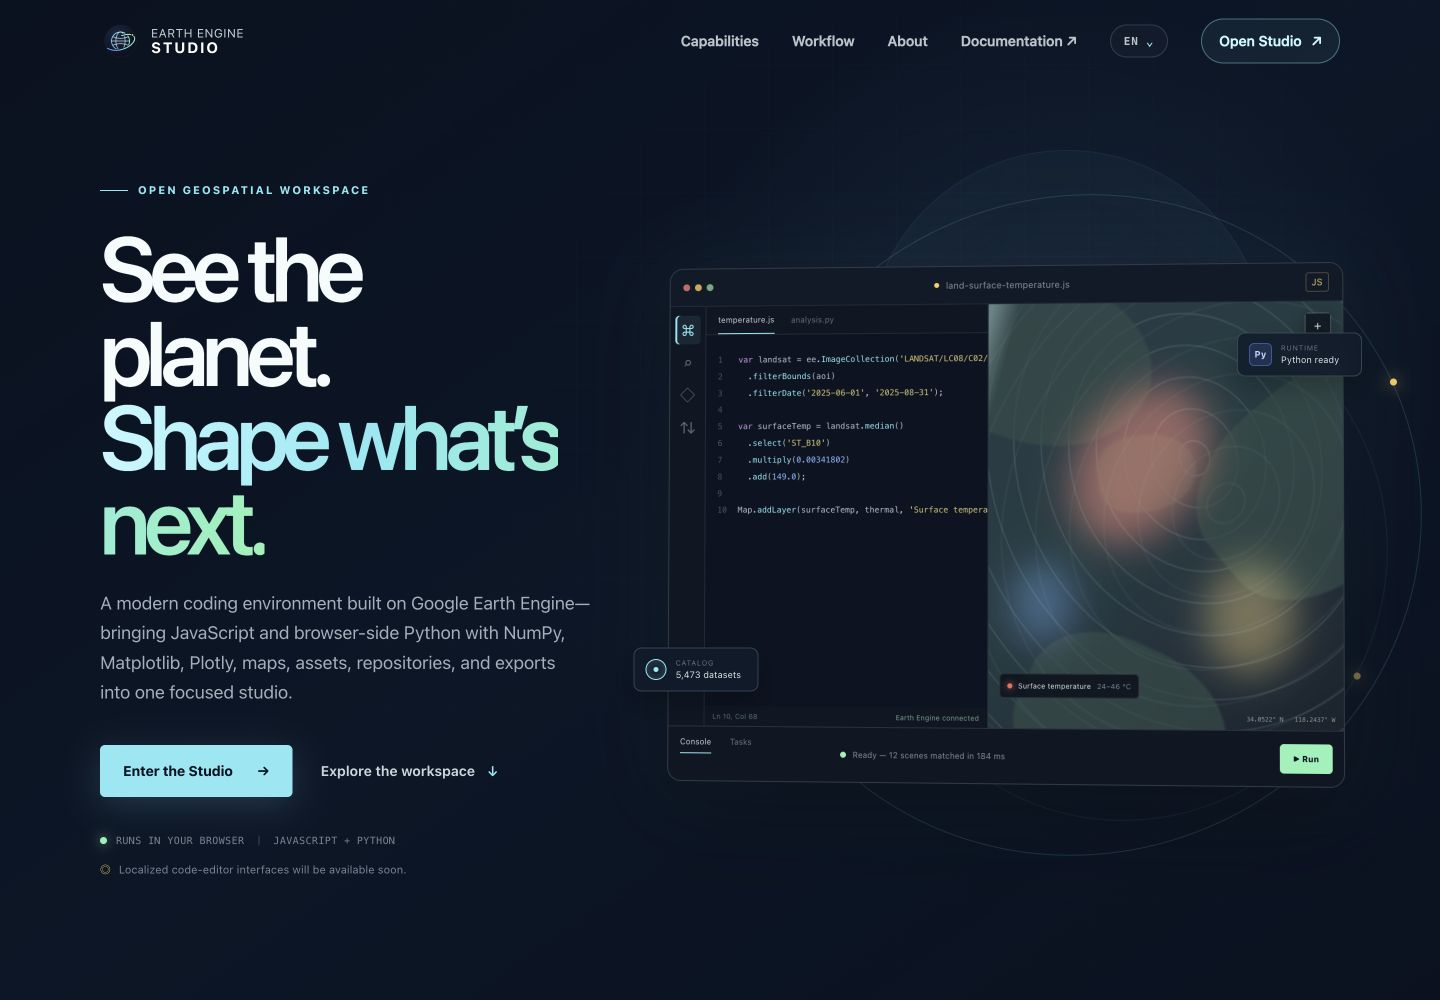
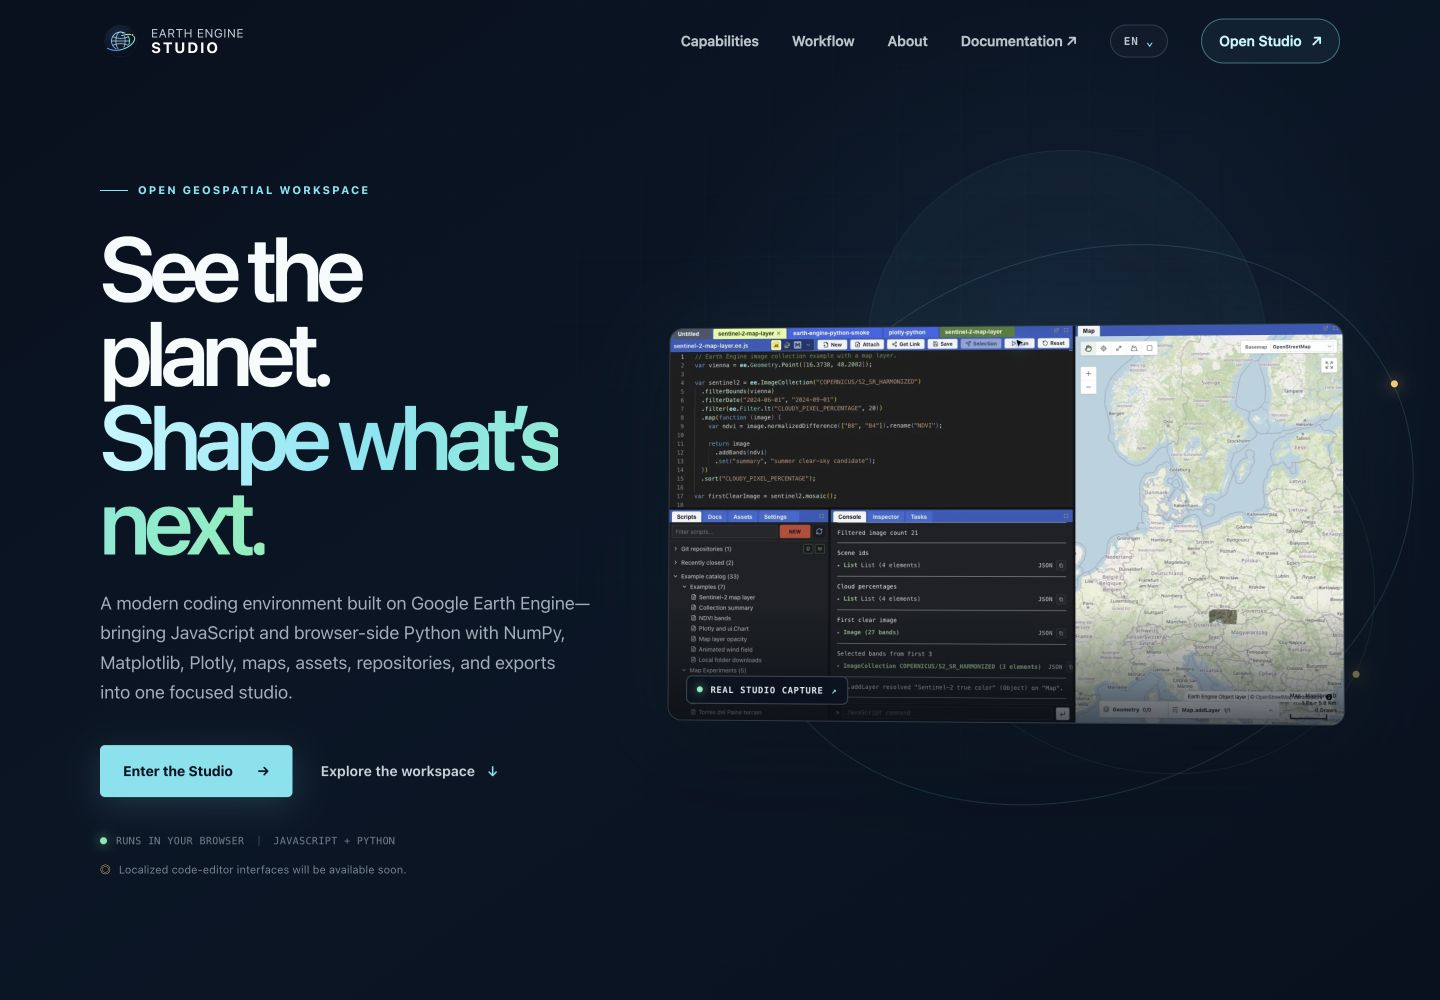
Replace mock interface with real Studio captures

Changed region(s): [[0.4375, 0.279, 0.9375, 0.775]]

diff --git a/_layouts/landing.html b/_layouts/landing.html
@@ -51,54 +51,13 @@ layout: default
         <p class="locale-notice reveal"><span aria-hidden="true">◎</span>{{ t.hero.editor_notice }}</p>
       </div>
 
-      <div class="product-stage reveal" data-product-demo>
+      <div class="product-stage product-capture reveal">
         <div class="orbit orbit-a" aria-hidden="true"></div>
         <div class="orbit orbit-b" aria-hidden="true"></div>
-        <div class="product-window">
-          <div class="window-bar">
-            <div class="window-controls" aria-hidden="true"><i></i><i></i><i></i></div>
-            <div class="window-title"><span></span> land-surface-temperature.js</div>
-            <div class="window-mode">JS</div>
-          </div>
-          <div class="workspace">
-            <aside class="workspace-rail" aria-label="{{ t.hero.panels }}">
-              <button class="rail-active" type="button" aria-label="{{ t.hero.files }}">⌘</button>
-              <button type="button" aria-label="{{ t.hero.search }}">⌕</button>
-              <button type="button" aria-label="{{ t.hero.assets }}">◇</button>
-              <button type="button" aria-label="{{ t.hero.tasks }}">⇅</button>
-            </aside>
-            <div class="code-panel" aria-label="{{ t.hero.example_code }}">
-              <div class="code-tabs"><span class="active">temperature.js</span><span>analysis.py</span></div>
-              <pre><span class="ln">1</span><span class="kw">var</span> landsat = ee.<span class="fn">ImageCollection</span>(<span class="str">'LANDSAT/LC08/C02/T1_L2'</span>)
-<span class="ln">2</span>  .<span class="fn">filterBounds</span>(aoi)
-<span class="ln">3</span>  .<span class="fn">filterDate</span>(<span class="str">'2025-06-01'</span>, <span class="str">'2025-08-31'</span>);
-<span class="ln">4</span>
-<span class="ln">5</span><span class="kw">var</span> surfaceTemp = landsat.<span class="fn">median</span>()
-<span class="ln">6</span>  .<span class="fn">select</span>(<span class="str">'ST_B10'</span>)
-<span class="ln">7</span>  .<span class="fn">multiply</span>(<span class="num">0.00341802</span>)
-<span class="ln">8</span>  .<span class="fn">add</span>(<span class="num">149.0</span>);
-<span class="ln">9</span>
-<span class="ln">10</span>Map.<span class="fn">addLayer</span>(surfaceTemp, thermal, <span class="str">'Surface temperature'</span>);</pre>
-              <div class="code-status"><span>Ln 10, Col 68</span><span>Earth Engine connected</span></div>
-            </div>
-            <div class="map-panel">
-              <div class="map-terrain" aria-hidden="true">
-                <i class="terrain terrain-one"></i><i class="terrain terrain-two"></i><i class="terrain terrain-three"></i><i class="terrain terrain-four"></i>
-                <i class="heat heat-one"></i><i class="heat heat-two"></i><i class="heat heat-three"></i><div class="scan-line"></div>
-              </div>
-              <div class="map-toolbar"><button type="button" aria-label="{{ t.hero.zoom_in }}">+</button><button type="button" aria-label="{{ t.hero.zoom_out }}">−</button></div>
-              <div class="map-label"><i></i> {{ t.hero.temperature }} <span>24–46 °C</span></div>
-              <div class="map-coords">34.0522° N&nbsp;&nbsp; 118.2437° W</div>
-            </div>
-          </div>
-          <div class="console-bar">
-            <div><span>{{ t.hero.console }}</span><span>{{ t.hero.tasks }}</span></div>
-            <p><i></i><span data-run-status data-evaluating="{{ t.hero.evaluating }}" data-complete="{{ t.hero.complete }}" aria-live="polite">{{ t.hero.ready }}</span></p>
-            <button type="button" data-run-demo data-run-label="{{ t.hero.run }}" data-running-label="{{ t.hero.running }}"><span class="play" aria-hidden="true">▶</span> {{ t.hero.run }}</button>
-          </div>
-        </div>
-        <div class="floating-chip chip-one"><i></i><span><small>{{ t.hero.catalog }}</small>{{ t.hero.datasets }}</span></div>
-        <div class="floating-chip chip-two"><span class="python-mark">Py</span><span><small>{{ t.hero.runtime }}</small>{{ t.hero.python_ready }}</span></div>
+        <a class="product-window product-window-real" href="https://code.earthengine.studio/">
+          <img src="{{ '/assets/images/product/hero-workspace.webp' | relative_url }}" width="1600" height="940" alt="{{ t.hero.capture_alt }}">
+          <span class="capture-label"><i></i>{{ t.hero.capture_label }} <b aria-hidden="true">↗</b></span>
+        </a>
       </div>
     </div>
 
@@ -119,18 +78,17 @@ layout: default
         <article class="feature-card feature-code reveal">
           <div class="card-number">01</div>
           <div class="language-pills"><span>JavaScript</span><span>Python</span><span>NumPy</span></div>
-          <div class="mini-editor" aria-hidden="true">
-            <div><span>1</span><b>import</b> ee, numpy <b>as</b> np</div>
-            <div><span>2</span><b>import</b> matplotlib.pyplot <b>as</b> plt</div>
-            <div><span>3</span>image = ee.<i>Image</i>(<u>"COPERNICUS/S2"</u>)</div>
-            <div class="cursor"><span>4</span>Map.<i>addLayer</i>(image)<b></b></div>
-          </div>
+          <div class="code-sample"><small>Python · NumPy · Matplotlib</small><pre><code><b>import</b> ee, numpy <b>as</b> np
+<b>import</b> matplotlib.pyplot <b>as</b> plt
+
+image = ee.<i>Image</i>(<u>"COPERNICUS/S2"</u>)
+Map.<i>addLayer</i>(image)</code></pre></div>
           <div class="card-copy"><h3>{{ t.capabilities.code_title }}</h3><p>{{ t.capabilities.code_body }}</p></div>
         </article>
 
         <article class="feature-card feature-map reveal">
           <div class="card-number">02</div>
-          <div class="map-choice" aria-hidden="true"><div class="map-orb"><i></i><i></i><i></i><span></span></div><div class="provider-stack"><span class="active">MapLibre</span><span>OpenLayers</span><span>Google Maps</span></div></div>
+          <div class="feature-shot feature-shot-map"><img src="{{ '/assets/images/product/map-workspace.webp' | relative_url }}" width="1600" height="940" alt="{{ t.capabilities.map_capture_alt }}"></div>
           <div class="card-copy"><h3>{{ t.capabilities.map_title }}</h3><p>{{ t.capabilities.map_body }}</p></div>
         </article>
 
@@ -142,7 +100,7 @@ layout: default
 
         <article class="feature-card feature-output reveal">
           <div class="card-number">04</div>
-          <div class="output-visual" aria-hidden="true"><div class="chart-bars"><i></i><i></i><i></i><i></i><i></i><i></i><i></i></div><span class="chart-line"></span><div class="output-tabs"><span>{{ t.hero.console }}</span><span>{{ t.capabilities.figure }}</span><span>{{ t.hero.tasks }}</span></div></div>
+          <div class="feature-shot feature-shot-output"><img src="{{ '/assets/images/product/output-workflow.webp' | relative_url }}" width="1600" height="940" alt="{{ t.capabilities.output_capture_alt }}"></div>
           <div class="card-copy"><h3>{{ t.capabilities.output_title }}</h3><p>{{ t.capabilities.output_body }}</p></div>
         </article>
       </div>

diff --git a/assets/js/main.js b/assets/js/main.js
@@ -2,8 +2,6 @@
   const header = document.querySelector("[data-header]");
   const menuButton = document.querySelector("[data-menu-button]");
   const menu = document.querySelector("[data-menu]");
-  const runButton = document.querySelector("[data-run-demo]");
-  const runStatus = document.querySelector("[data-run-status]");
 
   const updateHeader = () => header?.classList.toggle("scrolled", window.scrollY > 18);
   updateHeader();
@@ -50,23 +48,6 @@
   } else {
     document.querySelectorAll(".reveal").forEach((element) => element.classList.add("is-visible"));
   }
-
-  runButton?.addEventListener("click", () => {
-    if (runButton.classList.contains("running")) return;
-    const runLabel = runButton.dataset.runLabel || "Run";
-    const runningLabel = runButton.dataset.runningLabel || "Running";
-    runButton.classList.add("running");
-    runButton.innerHTML = `<span class="spinner" aria-hidden="true"></span> ${runningLabel}`;
-    runStatus.textContent = runStatus.dataset.evaluating || "Evaluating image collection…";
-
-    window.setTimeout(() => {
-      runButton.classList.remove("running");
-      runButton.innerHTML = `<span class="play" aria-hidden="true">▶</span> ${runLabel}`;
-      runStatus.textContent = runStatus.dataset.complete || "Complete — layer rendered from 12 scenes in 231 ms";
-      document.querySelector("[data-product-demo]")?.classList.add("run-complete");
-      window.setTimeout(() => document.querySelector("[data-product-demo]")?.classList.remove("run-complete"), 1200);
-    }, 950);
-  });
 
   document.querySelectorAll("[data-year]").forEach((element) => {
     element.textContent = String(new Date().getFullYear());

diff --git a/assets/css/main.css b/assets/css/main.css
@@ -93,6 +93,12 @@ img { display: block; max-width: 100%; }
 
 .product-stage { position: relative; min-width: 0; perspective: 1300px; }
 .product-window { position: relative; z-index: 2; width: 780px; max-width: 100%; margin-left: auto; overflow: hidden; background: #08101a; border: 1px solid rgba(189, 248, 255, 0.19); border-radius: 14px; box-shadow: var(--shadow), 0 0 80px rgba(74, 194, 210, 0.08); transform: rotateY(-3deg) rotateX(1deg); transform-origin: center; }
+.product-window-real { display: block; aspect-ratio: 1600 / 940; color: #fff; text-decoration: none; transition: border-color 180ms ease, box-shadow 180ms ease, transform 220ms ease; }
+.product-window-real:hover, .product-window-real:focus-visible { border-color: rgba(110, 231, 242, 0.52); box-shadow: var(--shadow), 0 0 90px rgba(74, 194, 210, 0.16); transform: rotateY(-1deg) translateY(-3px); }
+.product-window-real img { width: 100%; height: 100%; object-fit: cover; }
+.product-window-real::after { content: ""; position: absolute; inset: 0; pointer-events: none; background: linear-gradient(180deg, transparent 70%, rgba(5, 12, 21, 0.68)); }
+.capture-label { position: absolute; z-index: 2; left: 18px; bottom: 16px; display: flex; align-items: center; gap: 8px; padding: 8px 10px; color: #dce9ed; background: rgba(7, 17, 31, 0.84); border: 1px solid rgba(189, 248, 255, 0.23); border-radius: 6px; backdrop-filter: blur(9px); font: 700 9px ui-monospace, SFMono-Regular, Menlo, Consolas, monospace; letter-spacing: 0.07em; text-transform: uppercase; }
+.capture-label i { width: 6px; height: 6px; background: var(--mint); border-radius: 50%; box-shadow: 0 0 9px rgba(114, 241, 184, 0.75); }.capture-label b { color: var(--cyan); }
 .window-bar { height: 38px; display: grid; grid-template-columns: 1fr auto 1fr; align-items: center; padding: 0 13px; color: #80909b; background: #101a27; border-bottom: 1px solid #1d2a38; font-size: 9px; }
 .window-controls { display: flex; gap: 5px; }
 .window-controls i { width: 7px; height: 7px; border-radius: 50%; background: #3d4955; }
@@ -140,7 +146,12 @@ img { display: block; max-width: 100%; }
 .capability-grid { display: grid; grid-template-columns: 1fr 1fr; gap: 18px; }.feature-card { position: relative; min-height: 520px; display: flex; flex-direction: column; justify-content: space-between; overflow: hidden; padding: 31px; background: #eaebe5; border: 1px solid #d6d9d2; border-radius: var(--radius); }.feature-card::after { content: ""; position: absolute; inset: 0; pointer-events: none; background: linear-gradient(155deg, rgba(255, 255, 255, 0.62), transparent 45%); }
 .card-number { position: relative; z-index: 2; color: #77838a; font-family: ui-monospace, SFMono-Regular, Menlo, monospace; font-size: 10px; }.card-copy { position: relative; z-index: 2; max-width: 490px; }.card-copy h3 { margin: 0 0 10px; font-size: 27px; font-weight: 620; letter-spacing: -0.035em; }.card-copy p { margin: 0; color: #69757b; font-size: 14px; line-height: 1.65; }
 .language-pills { position: absolute; z-index: 2; top: 28px; right: 28px; display: flex; gap: 5px; }.language-pills span { padding: 5px 8px; color: #31525c; background: rgba(255, 255, 255, 0.65); border: 1px solid rgba(51, 88, 94, 0.13); border-radius: 4px; font-size: 8px; }
-.mini-editor { position: absolute; z-index: 2; inset: 86px 47px auto; padding: 25px 28px; overflow: hidden; color: #bfcbd3; background: #0c1724; border: 1px solid #283845; border-radius: 12px; box-shadow: 0 24px 40px rgba(12, 23, 36, 0.19); font-family: ui-monospace, SFMono-Regular, Menlo, monospace; font-size: 10px; line-height: 2.1; transform: rotate(-1deg); }.mini-editor::before { content: "temperature.py"; display: block; margin: -25px -28px 17px; padding: 8px 13px; color: #788995; background: #111f2d; border-bottom: 1px solid #263746; font: 8px Inter, sans-serif; }.mini-editor span { display: inline-block; width: 22px; color: #526675; }.mini-editor b { color: #d997e7; font-weight: 400; }.mini-editor i { color: var(--cyan); font-style: normal; }.mini-editor u { color: #d7c879; text-decoration: none; }.mini-editor .cursor b { display: inline-block; width: 1px; height: 12px; margin-left: 2px; vertical-align: middle; background: var(--cyan); animation: blink 1s steps(2, jump-none) infinite; }@keyframes blink { 50% { opacity: 0; } }
+.feature-shot { position: absolute; z-index: 1; inset: 0 0 145px; overflow: hidden; background: #0d1723; }
+.feature-shot::after { content: ""; position: absolute; inset: 0; background: linear-gradient(180deg, transparent 64%, #eaebe5 100%); }
+.feature-shot img { width: 100%; height: 100%; object-fit: cover; }
+.feature-map .card-number, .feature-output .card-number { padding: 5px 7px; color: #dbe9ed; background: rgba(7, 17, 31, 0.75); border: 1px solid rgba(189, 248, 255, 0.18); border-radius: 4px; backdrop-filter: blur(7px); justify-self: start; align-self: start; }
+.code-sample { position: absolute; z-index: 2; inset: 86px 47px auto; padding: 19px 24px 23px; color: #bfcbd3; background: #0c1724; border: 1px solid #283845; border-radius: 12px; box-shadow: 0 24px 40px rgba(12, 23, 36, 0.19); }
+.code-sample small { display: block; margin-bottom: 16px; color: #7e929d; font: 700 8px ui-monospace, SFMono-Regular, Menlo, monospace; letter-spacing: 0.08em; text-transform: uppercase; }.code-sample pre { margin: 0; font: 10px/2.1 ui-monospace, SFMono-Regular, Menlo, monospace; white-space: pre-wrap; }.code-sample b { color: #d997e7; font-weight: 400; }.code-sample i { color: var(--cyan); font-style: normal; }.code-sample u { color: #d7c879; text-decoration: none; }
 .map-choice { position: absolute; z-index: 2; inset: 50px 30px auto; height: 310px; }.map-orb { position: absolute; width: 250px; height: 250px; left: 50%; top: 5px; margin-left: -125px; overflow: hidden; background: radial-gradient(circle at 35% 31%, #447571 0, #244947 32%, #112c32 72%); border: 1px solid #315964; border-radius: 50%; box-shadow: 0 22px 45px rgba(16, 55, 63, 0.24); }.map-orb::before, .map-orb::after, .map-orb i { content: ""; position: absolute; inset: 16px; border: 1px solid rgba(189, 248, 255, 0.24); border-radius: 50%; }.map-orb::after { inset: 16px 63px; }.map-orb i:first-child { inset: 63px 16px; }.map-orb i:nth-child(2) { inset: 16px 88px; }.map-orb i:nth-child(3) { inset: 88px 16px; }.map-orb span { position: absolute; left: 34px; top: 66px; width: 190px; height: 100px; border: 2px solid var(--cyan); border-color: var(--cyan) transparent transparent; border-radius: 50%; transform: rotate(-24deg); }.map-orb span::after { content: ""; position: absolute; right: 5px; top: 12px; width: 7px; height: 7px; background: var(--amber); border-radius: 50%; box-shadow: 0 0 10px var(--amber); }
 .provider-stack { position: absolute; right: 2px; top: 92px; display: grid; gap: 6px; }.provider-stack span { min-width: 105px; padding: 7px 10px; color: #63747b; background: rgba(247, 247, 243, 0.92); border: 1px solid #d0d7d2; border-radius: 5px; box-shadow: 0 7px 20px rgba(20, 37, 41, 0.08); font-size: 9px; }.provider-stack .active { color: #144049; border-color: #5ab9c3; box-shadow: inset 2px 0 #3daeba; }
 .branch-visual { position: absolute; z-index: 2; inset: 60px 46px auto; height: 300px; }.branch-line { position: absolute; display: block; width: 2px; background: #70909a; }.main-line { height: 240px; left: 23%; top: 7px; }.side-line { width: 120px; height: 115px; left: 23%; top: 46px; background: transparent; border: 2px solid #4dafb9; border-left: 0; border-bottom-right-radius: 60px; border-top-right-radius: 60px; }.node { position: absolute; width: 11px; height: 11px; margin-left: -4px; background: var(--paper); border: 2px solid #70909a; border-radius: 50%; }.n1 { left: 23%; top: 18px; }.n2 { left: 23%; top: 92px; border-color: #4dafb9; }.n3 { left: calc(23% + 118px); top: 92px; border-color: #4dafb9; }.n4 { left: 23%; top: 205px; }
@@ -176,7 +187,7 @@ img { display: block; max-width: 100%; }
 
 @media (max-width: 560px) {
   :root { --shell: calc(100vw - 28px); }
-  .brand img { width: 37px; height: 37px; }.hero { padding-top: 112px; }.hero h1 { margin-top: 23px; font-size: 15.2vw; }.hero-actions { align-items: flex-start; flex-direction: column; gap: 20px; }.hero-note { flex-wrap: wrap; }.product-stage { margin-inline: -4px; }.product-window { border-radius: 9px; }.window-title { display: none; }.window-bar { grid-template-columns: 1fr auto; }.workspace { grid-template-columns: 30px 1.15fr 0.85fr; height: 310px; }.workspace-rail button { width: 22px; height: 25px; font-size: 13px; }.code-tabs span:nth-child(2) { display: none; }.code-panel pre { padding: 12px 7px; font-size: 5.3px; line-height: 2.1; }.code-panel .ln { width: 14px; }.map-label { max-width: calc(100% - 18px); bottom: 25px; white-space: nowrap; }.map-label span { display: none; }.map-coords { display: none; }.console-bar { height: 47px; grid-template-columns: 0.8fr 1.2fr auto; }.console-bar > div span:nth-child(2) { display: none; }.console-bar p { max-width: 110px; overflow: hidden; white-space: nowrap; }.console-bar button { margin-right: 6px; padding: 0 8px; }.proof-strip { flex-direction: column; margin-top: 65px; }.proof-strip ul { display: grid; }.section h2, .cta-section h2 { font-size: 12vw; }.feature-card { min-height: 460px; padding: 24px; }.mini-editor { inset: 80px 22px auto; padding-inline: 18px; font-size: 8px; }.map-choice { inset-inline: 4px; transform: scale(.82); }.branch-visual { inset: 60px 15px auto; transform: scale(.9); }.file-pill { min-width: 160px; }.output-visual { inset: 75px 20px auto; }.workflow-steps li { min-height: 185px; grid-template-columns: 42px 1fr; gap: 18px; }.workflow-steps b { display: none; }.foundation-visual { min-height: 410px; }.foundation-globe { width: 200px; height: 200px; }.foundation-ring { width: 290px; height: 120px; }.ring-two { width: 340px; height: 200px; }.label-core { left: 4%; bottom: 14%; }.label-studio { right: 3%; top: 13%; }.craft-inner { padding: 55px 0; }.craft-inner > p { font-size: 40px; }.cta-section { min-height: 610px; }.cta-inner img { width: 82px; }.footer-legal { flex-direction: column; }
+  .brand img { width: 37px; height: 37px; }.hero { padding-top: 112px; }.hero h1 { margin-top: 23px; font-size: 15.2vw; }.hero-actions { align-items: flex-start; flex-direction: column; gap: 20px; }.hero-note { flex-wrap: wrap; }.product-stage { margin-inline: -4px; }.product-window { border-radius: 9px; }.capture-label { left: 10px; bottom: 9px; font-size: 7px; }.proof-strip { flex-direction: column; margin-top: 65px; }.proof-strip ul { display: grid; }.section h2, .cta-section h2 { font-size: 12vw; }.feature-card { min-height: 460px; padding: 24px; }.code-sample { inset: 80px 22px auto; padding-inline: 18px; }.code-sample pre { font-size: 8px; }.branch-visual { inset: 60px 15px auto; transform: scale(.9); }.file-pill { min-width: 160px; }.workflow-steps li { min-height: 185px; grid-template-columns: 42px 1fr; gap: 18px; }.workflow-steps b { display: none; }.foundation-visual { min-height: 410px; }.foundation-globe { width: 200px; height: 200px; }.foundation-ring { width: 290px; height: 120px; }.ring-two { width: 340px; height: 200px; }.label-core { left: 4%; bottom: 14%; }.label-studio { right: 3%; top: 13%; }.craft-inner { padding: 55px 0; }.craft-inner > p { font-size: 40px; }.cta-section { min-height: 610px; }.cta-inner img { width: 82px; }.footer-legal { flex-direction: column; }
 }
 
 @media (prefers-reduced-motion: reduce) {

diff --git a/SCREENSHOTS.md b/SCREENSHOTS.md
@@ -16,6 +16,9 @@ CSS.
 | `docs/screenshots/product-sentinel-workspace.png` | Real editor, Console, and 2D map reference | No | `1600 × 940` PNG | Studio layout or map workflow changes |
 | `docs/screenshots/product-innsbruck-terrain.png` | Real editor, Console, and 3D map reference | No | `1600 × 940` PNG | Studio 3D view or terrain controls change |
 | `docs/screenshots/product-plotly-output.png` | Real maximized Plotly output reference | No | `1600 × 940` PNG | Figure tabs, controls, or export workflow changes |
+| `assets/images/product/hero-workspace.webp` | Real editor, Console, scripts, and map hero | Yes | `1600 × 940` WebP | Sentinel workflow or Studio layout changes |
+| `assets/images/product/map-workspace.webp` | Real JavaScript, Console, and 3D terrain card | Yes | `1600 × 940` WebP | Studio 3D view or terrain controls change |
+| `assets/images/product/output-workflow.webp` | Real Plotly output card | Yes | `1600 × 940` WebP | Figure tabs, controls, or export workflow changes |
 | `assets/images/orbit-studio.svg` | Logo and favicon | Yes | Vector SVG | Brand mark changes; this is not a screenshot |
 
 All files under `docs/screenshots/` are documentation references only. Jekyll
@@ -64,30 +67,27 @@ a clean reference for the charts and figures section.
 
 ![Studio Plotly output](docs/screenshots/product-plotly-output.png)
 
-These PNGs are source references, not yet optimized production assets. Crop and
-export the selected image to its target WebP dimensions only when replacing a
-code-built illustration on the landing page.
+These PNGs are the lossless source references. Their optimized WebP exports in
+`assets/images/product/` are the production images used by the landing page.
 
-## Screenshot-like visuals that are currently code
+## Visual implementation inventory
 
-The following page visuals may look like screenshots, but they are not image
-files. They are editable HTML in `_layouts/landing.html` and CSS in
-`assets/css/main.css`.
+Product-interface imagery must come from real Studio captures. Code and CSS may
+still provide clearly abstract diagrams or truthful code samples, but must not
+imitate a product screenshot.
 
-| Surface | Current implementation | Future screenshot target | Capture status |
+| Surface | Current implementation | Source or next target | Status |
 | --- | --- | --- | --- |
-| Hero editor, map, and console | `.product-window` | `assets/images/product/hero-workspace.webp`, `1800 × 1200` | Sentinel-2 source reference ready |
-| JavaScript and Python editor card | `.mini-editor` | `assets/images/product/language-workflow.webp`, `1200 × 900` | Python-specific capture still needed |
-| Map renderer card | `.map-choice` | `assets/images/product/map-workspace.webp`, `1200 × 900` | 2D and 3D source references ready; drawing/inspection state still needed |
-| GitHub and GitLab repository card | `.branch-visual` | `assets/images/product/repository-workflow.webp`, `1200 × 900` | Sanitized demo repository still needed |
-| Console, figure, and task card | `.output-visual` | `assets/images/product/output-workflow.webp`, `1200 × 900` | Plotly source reference ready; combined Console/Tasks view still needed |
+| Hero editor, map, and Console | Real WebP screenshot | `product-sentinel-workspace.png` | Published |
+| JavaScript and Python card | Semantic Python code sample | Optional real Python workflow capture | Truthful sample; not presented as UI |
+| Map renderer card | Real WebP screenshot | `product-innsbruck-terrain.png` | Published |
+| GitHub and GitLab repository card | Abstract branch diagram | `assets/images/product/repository-workflow.webp` | Real sanitized repository capture still needed |
+| Console, figure, and task card | Real WebP screenshot | `product-plotly-output.png` | Published |
 | Earth Engine foundation graphic | `.foundation-visual` | Keep code-based unless the brand direction changes | No capture needed |
 
-The `assets/images/product/` filenames are reserved targets and are not created
-until real product screenshots are ready. When a screenshot replaces a coded
-illustration, keep the surrounding card copy and responsive container, add
-meaningful alternative text, and remove only the HTML/CSS that the image makes
-obsolete.
+When a screenshot is refreshed, keep the surrounding card copy and responsive
+container, provide meaningful localized alternative text, and update both the
+lossless source PNG and optimized production WebP in the same commit.
 
 ## Product screenshot capture checklist
 

diff --git a/CHANGES.md b/CHANGES.md
@@ -2,6 +2,9 @@
 
 ## Unreleased
 
+- Replaced the invented hero editor/map interface and illustrative map/output
+  panels with optimized, sanitized captures from the real Studio development
+  editor; the remaining Python visual is explicitly presented as a code sample.
 - Added complete French, German, Spanish, Brazilian Portuguese, and Simplified
   Chinese landing pages, backed by shared translation data, a responsive
   language selector, and reciprocal `hreflang` metadata while keeping English
@@ -17,8 +20,8 @@
   reserved production targets; and capture, privacy, sizing, optimization, and
   acceptance checklists.
 - Built a complete responsive Jekyll landing page for Earth Engine Studio with
-  an orbital visual system, an interactive editor/map demonstration, capability
-  and workflow sections, accessible navigation, reduced-motion support, and a
+  an orbital visual system, real product captures, capability and workflow
+  sections, accessible navigation, reduced-motion support, and a
   custom 404 page.
 - Added product positioning for JavaScript and Python, direct GitHub and GitLab
   repository file workflows with conflict-aware saves, flexible map renderers,

diff --git a/README.md b/README.md
@@ -54,6 +54,7 @@ are not changed by the site build.
 - `_layouts/landing.html` — shared translated landing page and product demonstration
 - `_data/i18n/` — complete landing-page copy for all six languages
 - `_layouts/default.html` — metadata and shared document shell
+- `assets/images/product/` — optimized, sanitized captures of the real Studio interface
 - `assets/` — site styles, interaction code, brand assets, and social preview
 - `404.html` — custom not-found page
 - `_config.yml` — Jekyll and canonical-domain configuration
@@ -84,6 +85,10 @@ See [the screenshot and visual replacement guide](SCREENSHOTS.md) for the
 current desktop/mobile references, sanitized live Studio captures, production
 image inventory, remaining product capture list, dimensions, privacy rules, and
 replacement checklist.
+
+The published product visuals are exported from real sessions on the Studio
+development editor. Interface-shaped mockups must not be substituted for these
+captures; decorative diagrams and code samples should remain visibly abstract.
 
 ## Product relationship
 